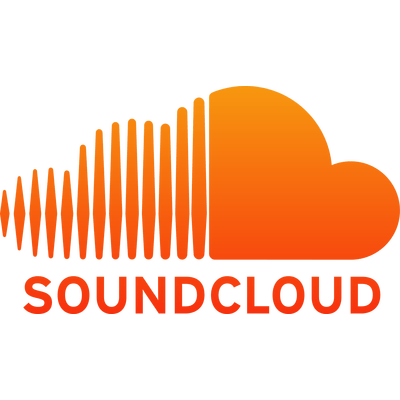
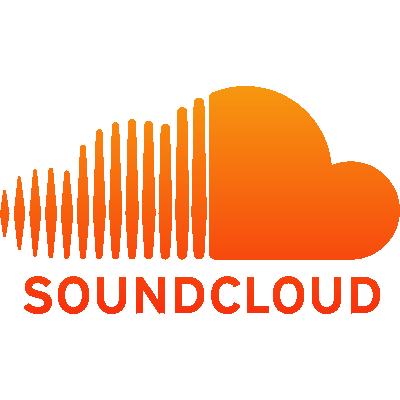
soundcloud media assets

diff --git a/renderer-process/components/content/Track.js b/renderer-process/components/content/Track.js
@@ -12,7 +12,7 @@ import Related from './Related';
 export default class Track extends React.Component {
   constructor(props) {
     super(props);
-    console.log('track:render', props);
+    this.parseDate = this.parseDate.bind(this);
     this.download = this.download.bind(this);
     ipcRenderer.on('download-file-error', function(event, error_message) {
       console.error(error_message);
@@ -24,12 +24,8 @@ export default class Track extends React.Component {
       console.log(percentage);
     });
   }
-  componentDidMount() {
-
-  }
-  componentWillUnmount() {
-
-  }
+  componentDidMount() {}
+  componentWillUnmount() {}
   download(e) {
     e.preventDefault();
     let element = e.target,
@@ -37,11 +33,19 @@ export default class Track extends React.Component {
       title = element.dataset.title.replace(/[^a-zA-Z]+/, '');
     ipcRenderer.send('download-file', title, id);
   }
+  parseDate(per) {
+    let moment = require('moment');
+    let track = this.props.track, created_at;
+
+    created_at = track.created_at;
+    return moment(created_at).format(per.toUpperCase());
+  }
   render() {
     let track = this.props.track;
     if (!track) {
       return null;
     }
+    console.log(track);
     return (
       <div className="track">
         <div className="track__header">
@@ -79,7 +83,7 @@ export default class Track extends React.Component {
             </ul>
             <div className="track__navigation__friends">
               <a href="#">
-                <img src="http://zblogged.com/wp-content/uploads/2015/11/17.jpg" alt=""/></a>
+                <img src={track.artwork_url} alt={track.title}/></a>
             </div>
           </div>
         </div>
@@ -88,7 +92,19 @@ export default class Track extends React.Component {
             <div role="tabpanel" className="tab-pane active" id="artist-overview">
               <div className="overview">
                 <div className="overview__artist">
-                  <div className="section-title">Latest Release</div>
+                  <div className="section-title">Track details</div>
+                  <div className="latest-release">
+                    <div className="latest-release__song">
+                      <div className="latest-release__song__title">{track.title}</div>
+                      <div className="latest-release__song__date">
+                        <span className="day">{this.parseDate('d')}/</span>
+                        <span className="month">{this.parseDate('m')}/</span>
+                        <span className="year">{this.parseDate('yyyy')}</span>
+                      </div>
+                      <hr/>
+                      <div className="latest-release__song__desc">{track.description}</div>
+                    </div>
+                  </div>
                 </div>
               </div>
             </div>
@@ -96,48 +112,48 @@ export default class Track extends React.Component {
               <div className="media-cards">
                 <div className="media-card">
                   <div className="media-card__image" style={{
-                      backgroundImage: 'url(https://s3-us-west-2.amazonaws.com/s.cdpn.io/7022/hoodie.jpg)'
-                    }}>
+                    backgroundImage: 'url(https://s3-us-west-2.amazonaws.com/s.cdpn.io/7022/hoodie.jpg)'
+                  }}>
                     <i className="fa fa-play"></i>
                   </div>
                   <a className="media-card__footer">Hoodie Allen</a>
                 </div>
                 <div className="media-card">
                   <div className="media-card__image" style={{
-                      backgroundImage: 'url(https://s3-us-west-2.amazonaws.com/s.cdpn.io/7022/hoodie.jpg)'
-                    }}>
+                    backgroundImage: 'url(https://s3-us-west-2.amazonaws.com/s.cdpn.io/7022/hoodie.jpg)'
+                  }}>
                     <i className="fa fa-play"></i>
                   </div>
                   <a className="media-card__footer">Hoodie Allen</a>
                 </div>
                 <div className="media-card">
                   <div className="media-card__image" style={{
-                      backgroundImage: 'url(https://s3-us-west-2.amazonaws.com/s.cdpn.io/7022/hoodie.jpg)'
-                    }}>
+                    backgroundImage: 'url(https://s3-us-west-2.amazonaws.com/s.cdpn.io/7022/hoodie.jpg)'
+                  }}>
                     <i className="fa fa-play"></i>
                   </div>
                   <a className="media-card__footer">Hoodie Allen</a>
                 </div>
                 <div className="media-card">
                   <div className="media-card__image" style={{
-                      backgroundImage: 'url(https://s3-us-west-2.amazonaws.com/s.cdpn.io/7022/hoodie.jpg)'
-                    }}>
+                    backgroundImage: 'url(https://s3-us-west-2.amazonaws.com/s.cdpn.io/7022/hoodie.jpg)'
+                  }}>
                     <i className="fa fa-play"></i>
                   </div>
                   <a className="media-card__footer">Hoodie Allen</a>
                 </div>
                 <div className="media-card">
                   <div className="media-card__image" style={{
-                      backgroundImage: 'url(https://s3-us-west-2.amazonaws.com/s.cdpn.io/7022/hoodie.jpg)'
-                    }}>
+                    backgroundImage: 'url(https://s3-us-west-2.amazonaws.com/s.cdpn.io/7022/hoodie.jpg)'
+                  }}>
                     <i className="fa fa-play"></i>
                   </div>
                   <a className="media-card__footer">Hoodie Allen</a>
                 </div>
                 <div className="media-card">
                   <div className="media-card__image" style={{
-                      backgroundImage: 'url(https://s3-us-west-2.amazonaws.com/s.cdpn.io/7022/hoodie.jpg)'
-                    }}>
+                    backgroundImage: 'url(https://s3-us-west-2.amazonaws.com/s.cdpn.io/7022/hoodie.jpg)'
+                  }}>
                     <i className="fa fa-play"></i>
                   </div>
                   <a className="media-card__footer">Hoodie Allen</a>

diff --git a/assets/css/main.css b/assets/css/main.css
@@ -18,10 +18,6 @@ body a {
   color: #aaaaaa;
 }
 
-body a:hover {
-  color: #c8c8c8;
-}
-
 body:before {
   content: ' ';
   display: block;
@@ -32,9 +28,9 @@ body:before {
   height: 100%;
   z-index: -1;
   opacity: 0.6;
-  background-image: url('../images/soundcloud-sm.png');
+  background-image: url('../images/soundcloud-md.png');
   background-repeat: no-repeat;
-  background-position: 50% 50%;
+  background-position: 50% 20%;
 }
 
 *, :after, :before {

diff --git a/renderer-process/components/App.js b/renderer-process/components/App.js
@@ -35,7 +35,7 @@ class App extends React.Component {
         this.setState((prevState, props) => {
           return {show_loader: false, active_track: track}
         });
-      }, 2000);
+      }, config._wait);
     });
   }
   resolve(e) {

diff --git a/config.js b/config.js
@@ -3,6 +3,7 @@
 'use strict';
 
 const config = {
+  _wait: 500,
   client_id: 'KFSHpN5xEaAvIZZCrsrDjuFHOcArM91q',
   baseUrl: 'http://api.soundcloud.com',
   resolveUrl: 'http://api.soundcloud.com/resolve',
